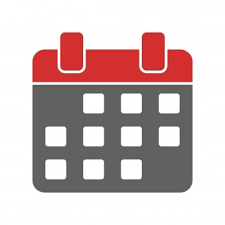
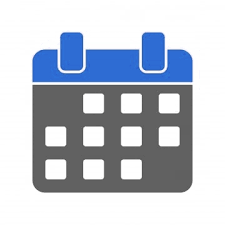
fix homepage colors

Changed region(s): [[0.1244, 0.1244, 0.8711, 0.3733]]

diff --git a/src/app/page.tsx b/src/app/page.tsx
@@ -42,7 +42,7 @@ const Home = () => {
                                 className="cursor-pointer transition rounded-lg"
                                 onClick={() => router.push('/calendar')}
                             />
-                            <span className="absolute bottom-0 left-0 right-0 flex items-center justify-center bg-red-500 bg-opacity-100 text-black text-lg font-semibold opacity-0 group-hover:opacity-100 transition">
+                            <span className="absolute bottom-0 left-0 right-0 flex items-center justify-center bg-lightblue2 bg-opacity-100 text-graybg text-lg font-semibold opacity-0 group-hover:opacity-100 transition">
                                 Edit Calendar
                             </span>
                         </div>
@@ -55,7 +55,7 @@ const Home = () => {
                                 className="cursor-pointer transition rounded-lg"
                                 onClick={() => router.push('/tags')}
                             />
-                            <span className="absolute bottom-0 left-0 right-0 flex items-center justify-center bg-red-500 bg-opacity-100 text-black text-lg font-semibold opacity-0 group-hover:opacity-100 transition">
+                            <span className="absolute bottom-0 left-0 right-0 flex items-center justify-center bg-lightblue2 bg-opacity-100 text-graybg text-lg font-semibold opacity-0 group-hover:opacity-100 transition">
                                 Manage Tags
                             </span>
                         </div>

diff --git a/tailwind.config.ts b/tailwind.config.ts
@@ -18,6 +18,7 @@ const config: Config = {
                 grayblue: "#ecf2fc",
                 graybg: "#f8fafa",
                 lightblue: "#c2e7ff",
+                lightblue2: "#2e6cd3",
             },
         },
     },
